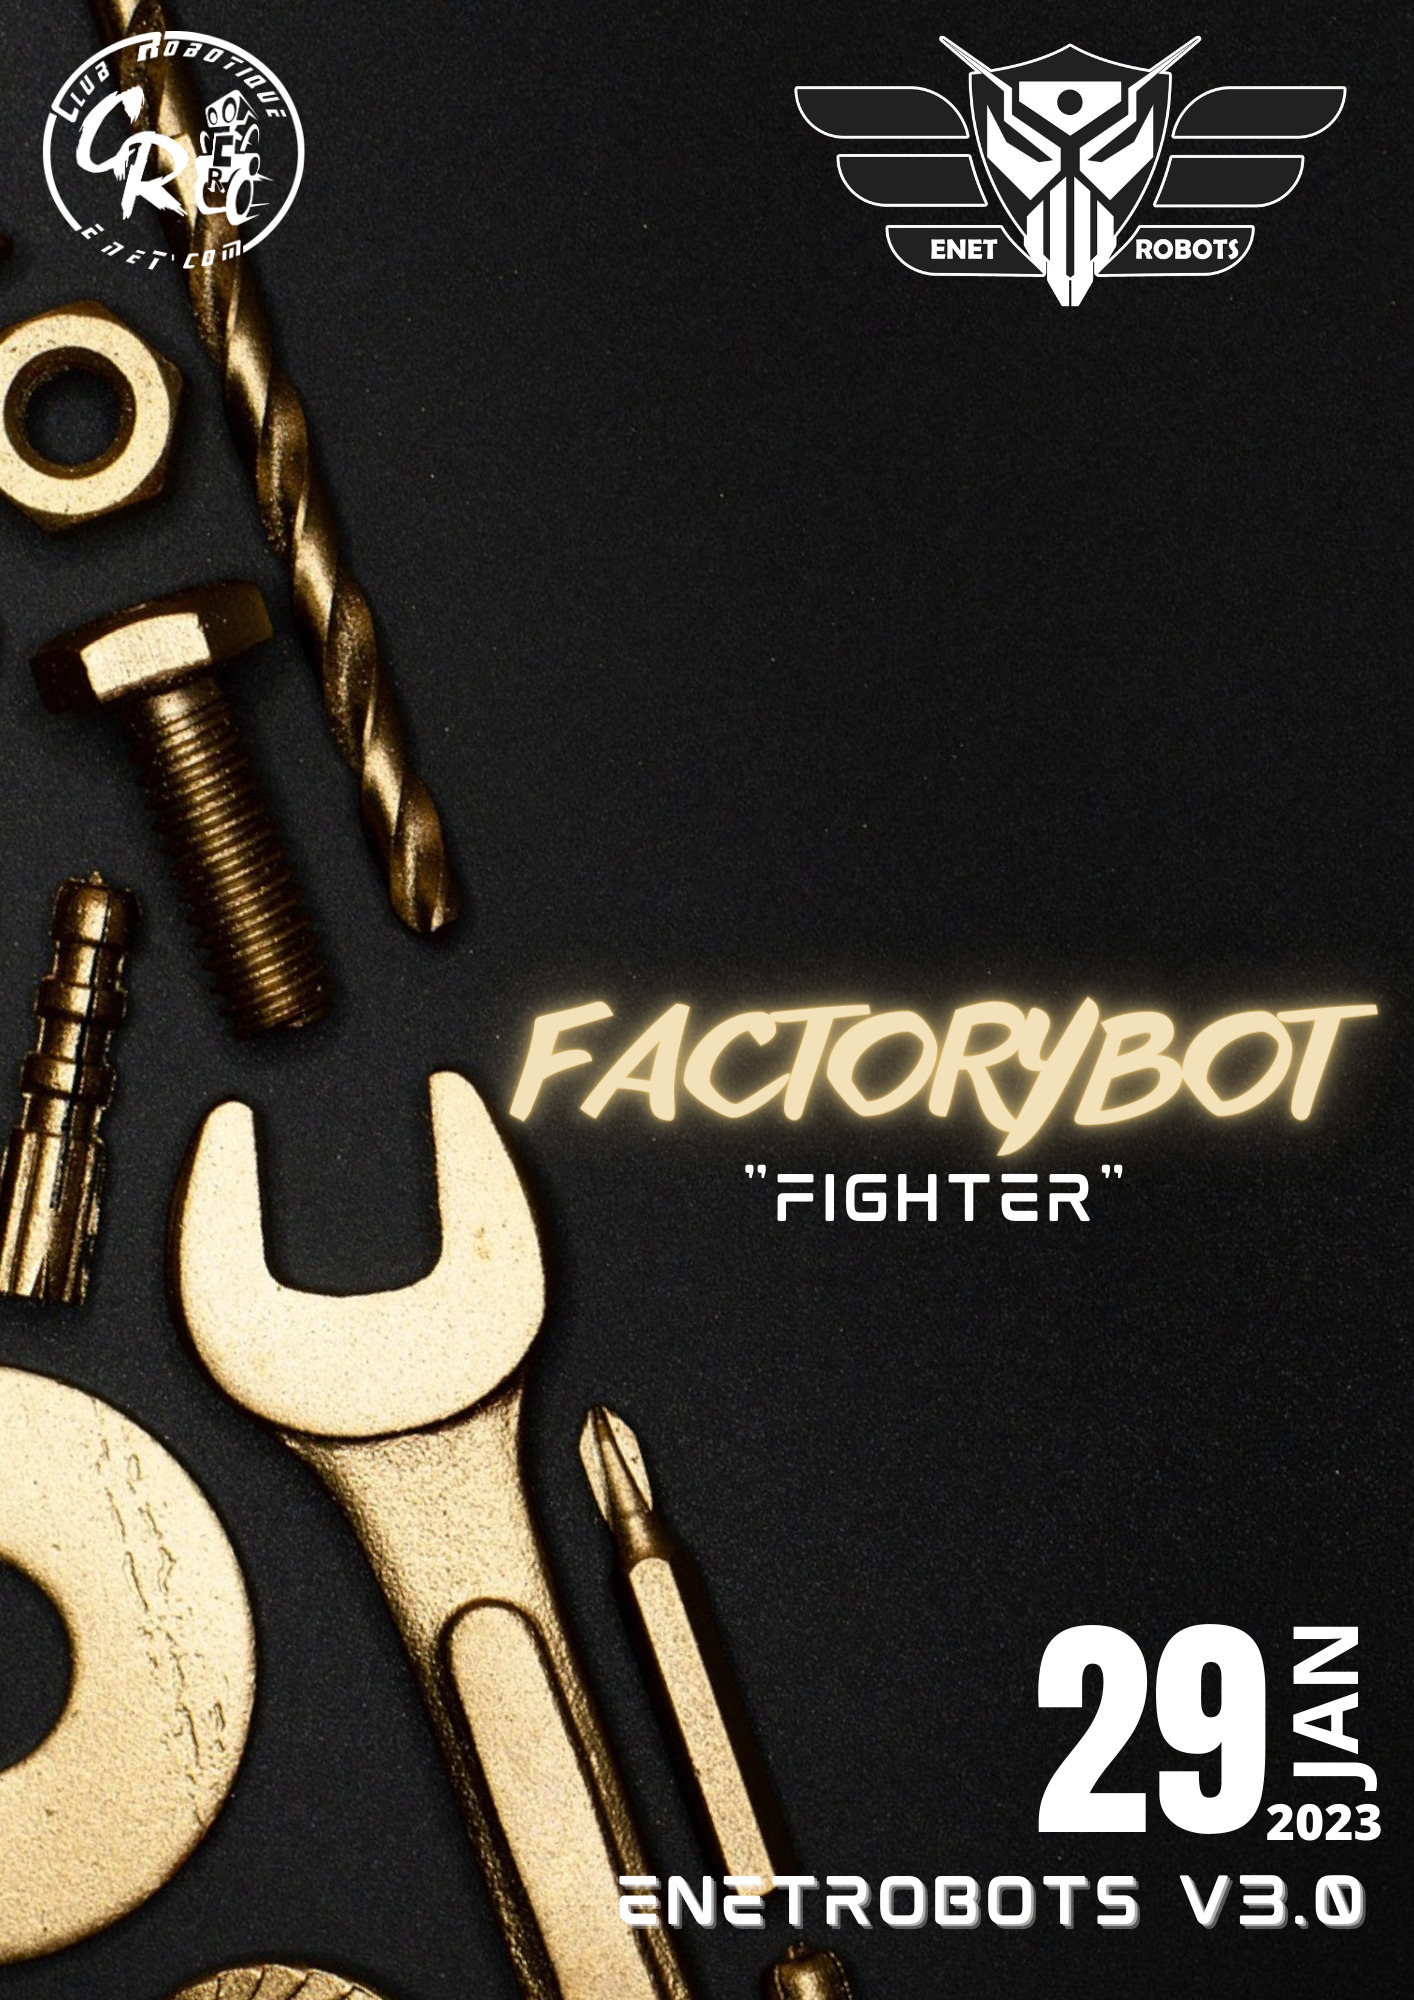
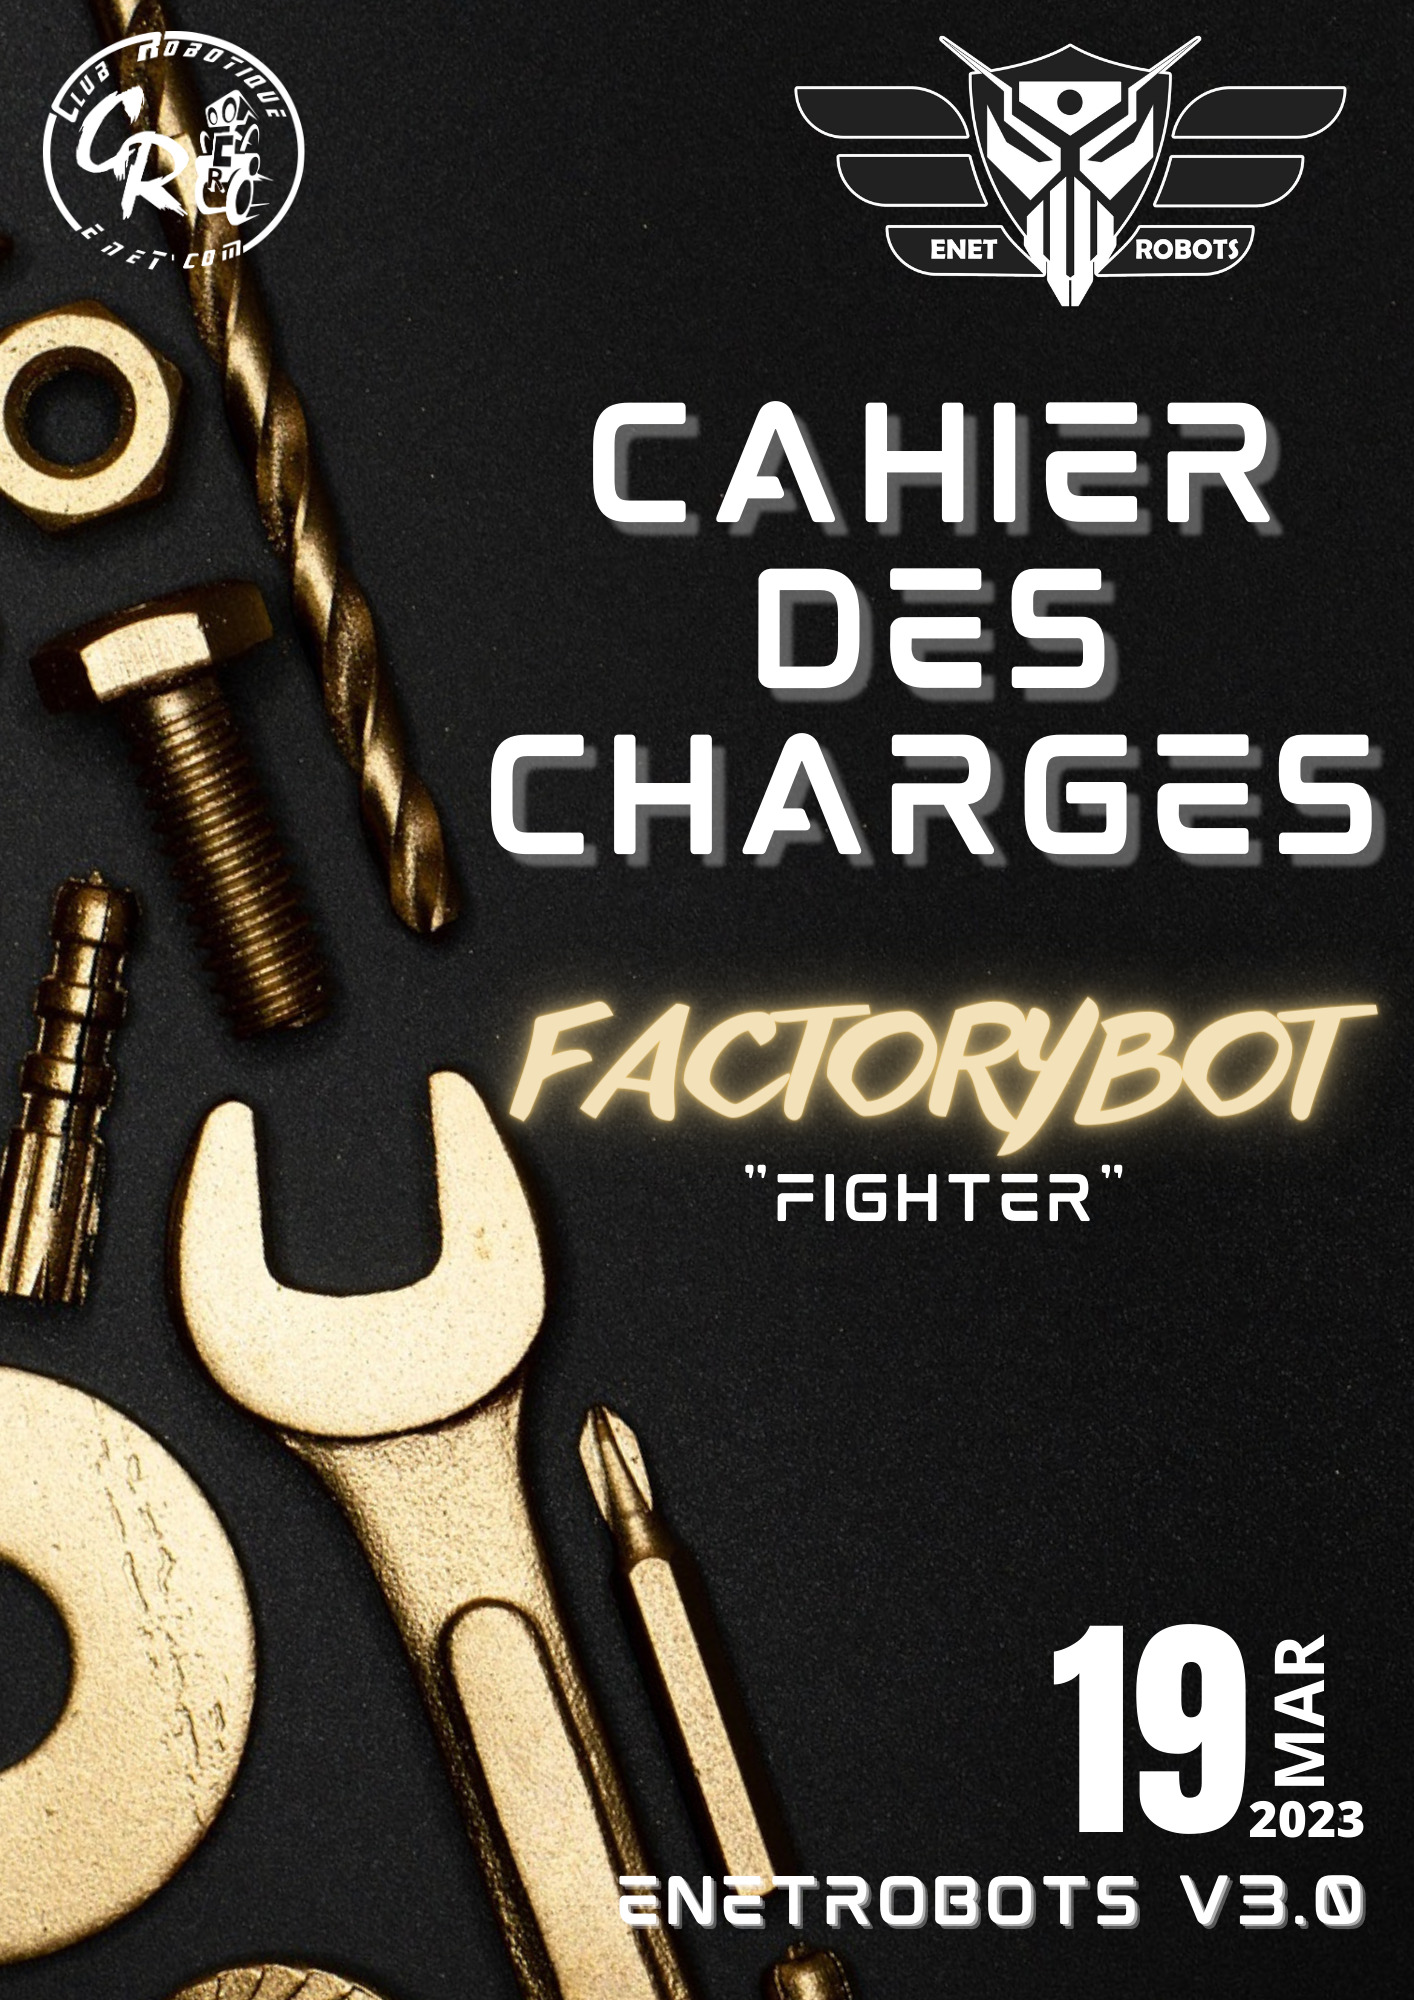
Update event date

Changed region(s): [[0.3423, 0.186, 0.9958, 0.434], [0.7157, 0.806, 0.9958, 0.93]]

diff --git a/_includes/form.html b/_includes/form.html
@@ -5,8 +5,8 @@
                 <h2 class="section-heading">Registration form</h2>
                 <hr class="primary">
                 <iframe src="https://docs.google.com/forms/d/e/{{ page.form_id }}/viewform?embedded=true&hl=en"
-                    width="100%" height="3600" frameborder="0" marginheight="0" marginwidth="0" scrolling="no"
-                    onload="loaded()">Loading…</iframe>
+                    width="100%" height="{{ page.form_height }}" frameborder="0" marginheight="0" marginwidth="0"
+                    scrolling="no" onload="loaded()">Loading…</iframe>
             </div>
         </div>
     </div>

diff --git a/_includes/index_competition.html b/_includes/index_competition.html
@@ -12,7 +12,7 @@
                     Be numerous and prove that you're among the best competitors,
                     who will guide their teams to victory.
                     Don't miss this opportunity to show your skills.
-                    Be present at our robotics day which will be on January 29, 2023
+                    Be present at our robotics day which will be on March 19, 2023
                     at the National School of Electronics and Telecommunications of Sfax.
                 </p>
                 <a href="enetrobots" class="btn btn-default btn-xl">Specifications & Registration</a>

diff --git a/enetrobots/fighter.html b/enetrobots/fighter.html
@@ -1,7 +1,8 @@
 ---
 header_title: FACTORYBOT
-form_id: 1FAIpQLSd2Uv7okFGfdDIm3Jv30XcBQ_IQwu1-GG6uPc434dT4_pWuxA
-specifications_id: 1uLF6j0anouTTBe1R5Ondev4Lin58h9lE
+specifications_id: 1i46DcVmazIVdq0cmlVeBut5SCtLQvhVW
+form_id: #
+form_height: 0
 nav_base: /
 ---
 

diff --git a/enetrobots/junior.html b/enetrobots/junior.html
@@ -1,7 +1,8 @@
 ---
 header_title: BRAINBOT
-form_id: 1FAIpQLSdN8Mpb2AhWrpxgmttcdgWyTTwQ8B5LwhpVk1skl8bhyoxRog
-specifications_id: 1Kn32ukaMJiztb-Ct392T8JU_rose-J4x
+specifications_id: 1vhNuPWQMU2xkMRhY61mKPHHM9brLVRdp
+form_id: #
+form_height: 0
 nav_base: /
 ---
 

diff --git a/enetrobots/allterrain.html b/enetrobots/allterrain.html
@@ -1,7 +1,8 @@
 ---
 header_title: FARMBOT
-form_id: 1FAIpQLSfR1GlCRoaoFX1QRCgyx-FOlP5yIpOxOCgDe_7Neicn0jgOOg
-specifications_id: 1g495opo3vHuZljedb8_fPZCc3_z9XsER
+specifications_id: 1PoWkv0YfM1wBJ6UiMRX3Q5R1C_A6TjNm
+form_id: #
+form_height: 0
 nav_base: /
 ---
 

diff --git a/enetrobots/linefollower.html b/enetrobots/linefollower.html
@@ -1,7 +1,8 @@
 ---
 header_title: NANOBOT
-form_id: 1FAIpQLSe4bSuddD4n-SDVHwnD-fXhOfjZgHTiMzeAVB3MhyzIo3rszA
-specifications_id: 1hhE0LQ3hWZOVMcNLEnuadG-a6RnzDvS5
+specifications_id: 11K-S4dKf1xgFf1sCWLlXG74UVx1aSbyW
+form_id: #
+form_height: 0
 nav_base: /
 ---
 

diff --git a/join.html b/join.html
@@ -1,5 +1,6 @@
 ---
 form_id: 1FAIpQLSdaMexNuhTI7OU_ierZRxeQrWHph5LUDWWSedsh0uGXdQo9mA
+form_height: 2800
 nav_base: /
 ---
 
